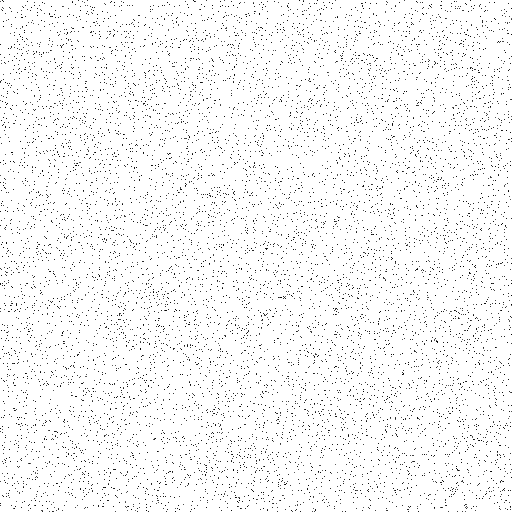
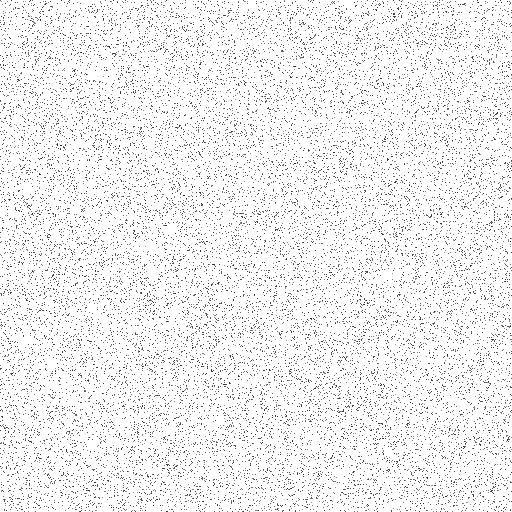
Körnung deaktiviert auf Anweisung
Sprenkel-Kachel wirkte wie Schmutz. Overlay komplett raus; Rückkehr
nur nach ausdrücklicher Freigabe einer kalibrierten Variante.

Changed region(s): [[0.0, 0.0, 1.0, 1.0]]

diff --git a/app/globals.css b/app/globals.css
@@ -503,19 +503,9 @@ html.menue-offen .nav__menue{ opacity:0; pointer-events:none; }
 /* Als ::after statt als Element: Pseudo-Elemente sind keine
    LCP-Kandidaten — der vollflächige Noise-Div wurde sonst beim
    Hydrieren zum "grössten Paint" und verfälschte den Messwert. */
-/* Kachel = hartes Pixelrauschen, auf 256px dargestellt: Auf Retina
-   trifft EIN Rauschkorn EXAKT EIN Gerätepixel — scharf statt matschig.
-   ZUM ZWEITEN MAL GELERNT (06.08.): KEINE Animation auf diesem Layer.
-   Der bewegte Vollbild-Layer drückt auf integrierten GPUs die Bildrate,
-   Cursor und Lenis wirken dann träge — das Flimmern bleibt draussen,
-   egal wie hübsch es bei ESE aussieht. */
-body::after{
-  content:""; position:fixed; inset:0; z-index:70; pointer-events:none;
-  background-image:url("/grain-fein.png"); background-repeat:repeat;
-  /* Sprenkel-Kachel: hoehere Deckkraft ist hier richtig — 92% der
-     Flaeche sind transparent, nur die Einzelpixel blenden. */
-  background-size:256px 256px; opacity:.3;
-}
+/* Körnung DEAKTIVIERT (07.08., Anweisung Dusan): Die Sprenkel-Kachel
+   wirkte auf seinem Bildschirm wie Schmutz. Kommt nur zurück, wenn er
+   eine kalibrierte Variante ausdrücklich freigibt — Vorschau zuerst. */
 
 /* ── Seitenwechsel: Ink-Überzug mit Wortmarke ─────────────────────── */
 .wechsel{

diff --git a/scripts/make-grain.py b/scripts/make-grain.py
@@ -13,8 +13,8 @@ import random
 from PIL import Image
 
 SIZE = 512
-DICHTE = 0.08          # Anteil Pixel mit Sprenkel (Rest voll transparent)
-SEED = 20260806
+DICHTE = 0.18          # Anteil Pixel mit Sprenkel (Rest voll transparent)
+SEED = 20260807
 
 random.seed(SEED)
 
@@ -27,7 +27,7 @@ def build():
             if random.random() < DICHTE:
                 hell = random.random() < 0.5
                 wert = 255 if hell else 0
-                alpha = random.randint(160, 255)
+                alpha = random.randint(110, 210)
                 px[x, y] = (wert, wert, wert, alpha)
     img.save('public/grain-fein.png', optimize=True)
     print('public/grain-fein.png geschrieben (512, Sprenkel, Dichte %.0f%%)' % (DICHTE * 100))
